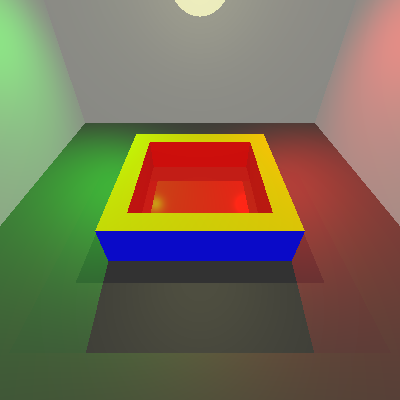
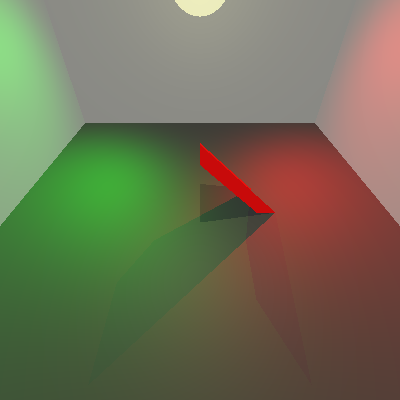
add cameraUp to the final test.

Changed region(s): [[0.21, 0.33, 0.78, 0.9]]

diff --git a/unitTests/renderer/FinalTest.java b/unitTests/renderer/FinalTest.java
@@ -234,6 +234,8 @@ public class FinalTest {
         Scene scene = new Scene("pool");
         Camera camera = new Camera(new Point(0, -200, 50), new Vector(0, 10, -1), new Vector(0, 1, 10)) //
                 .setVPSize(250, 250).setVPDistance(200);
+        Camera cameraUp = new Camera(new Point(0, -100, 90), new Vector(0, 10, -9), new Vector(0, 9, 10)) //
+                .setVPSize(250, 250).setVPDistance(150);
         scene.geometries.add(new Plane(new Point(0, 100, 0), new Vector(0, -1, 0)).setEmission(wallE).setMaterial(wallM));
         scene.geometries.add(new Plane(new Point(100, 0, 0), new Vector(-1, 0, 0)).setEmission(wallE).setMaterial(wallM));
         scene.geometries.add(new Plane(new Point(-100, 0, 0), new Vector(1, 0, 0)).setEmission(wallE).setMaterial(wallM));
@@ -269,5 +271,11 @@ public class FinalTest {
                 .setRayTracer(new RayTracerBasic(scene)) //
                 .renderImage(); //
         camera.writeToImage();
+        cameraUp.setImageWriter(new ImageWriter("ballsPoolUp", 400, 400)) //
+                .setRayTracer(new RayTracerBasic(scene)) //
+                .renderImage(); //
+        cameraUp.writeToImage();
     }
 }
+
+
